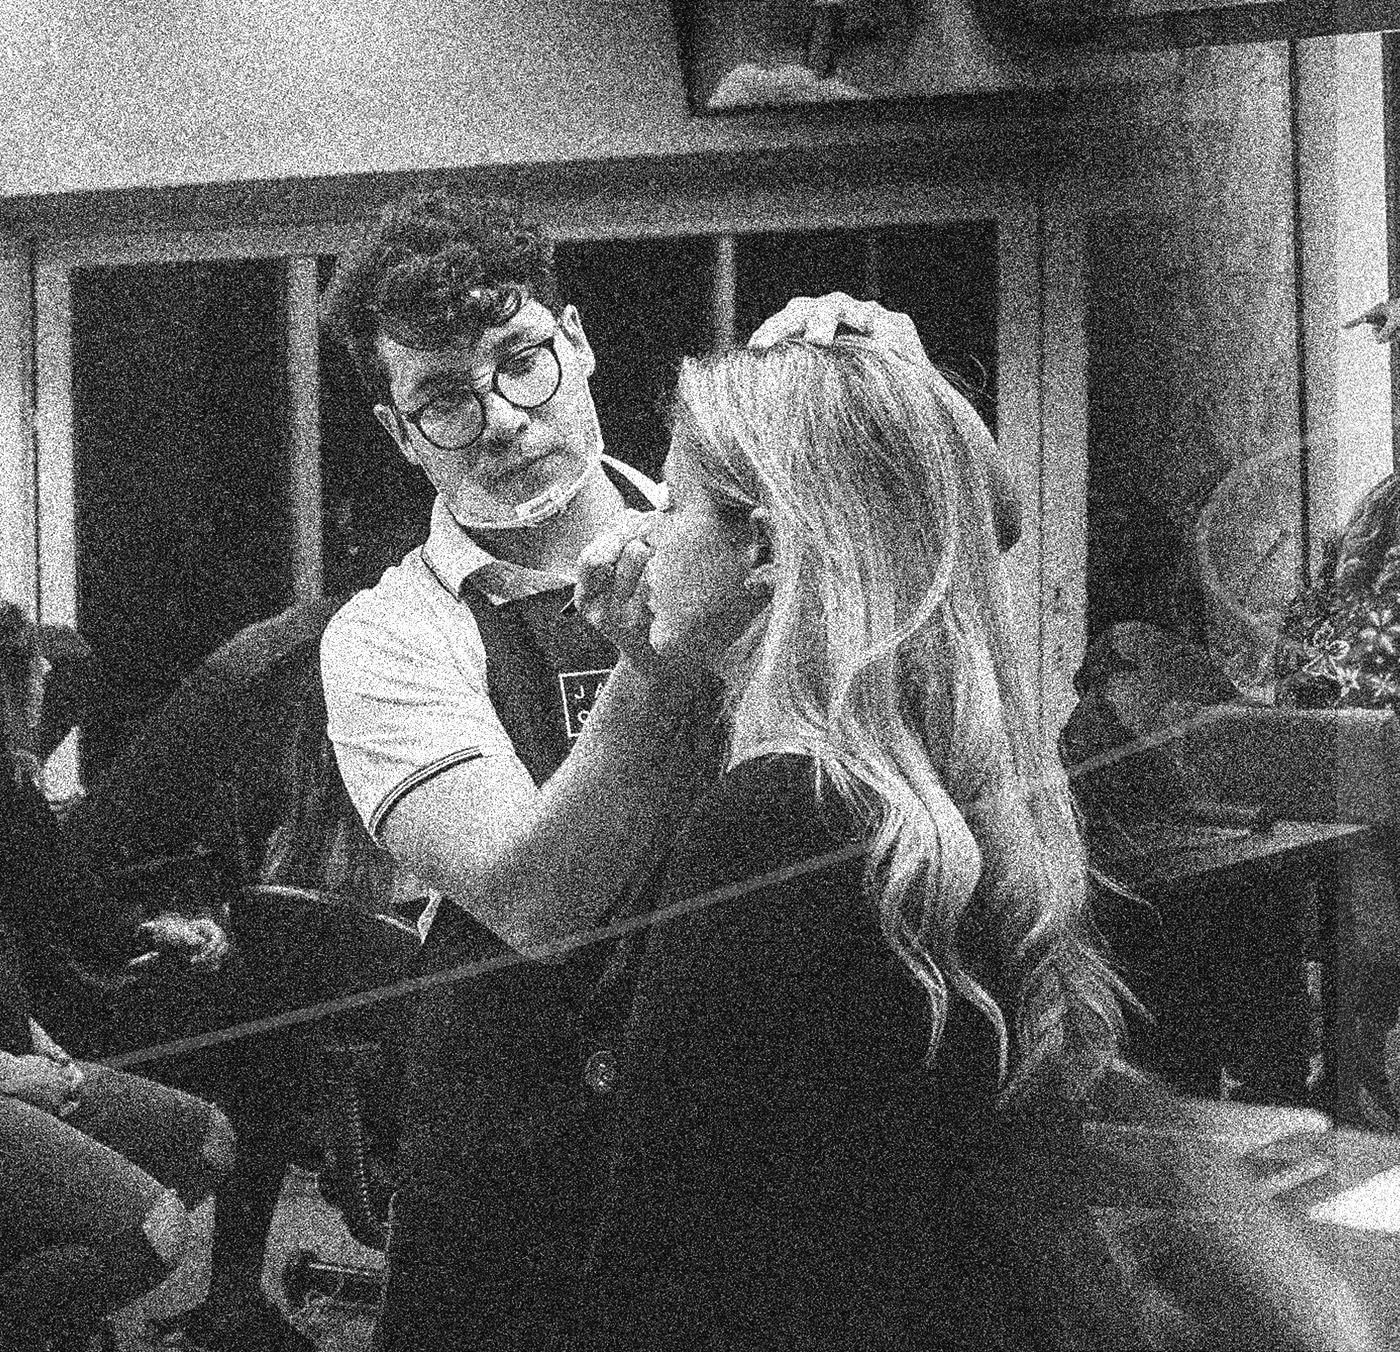
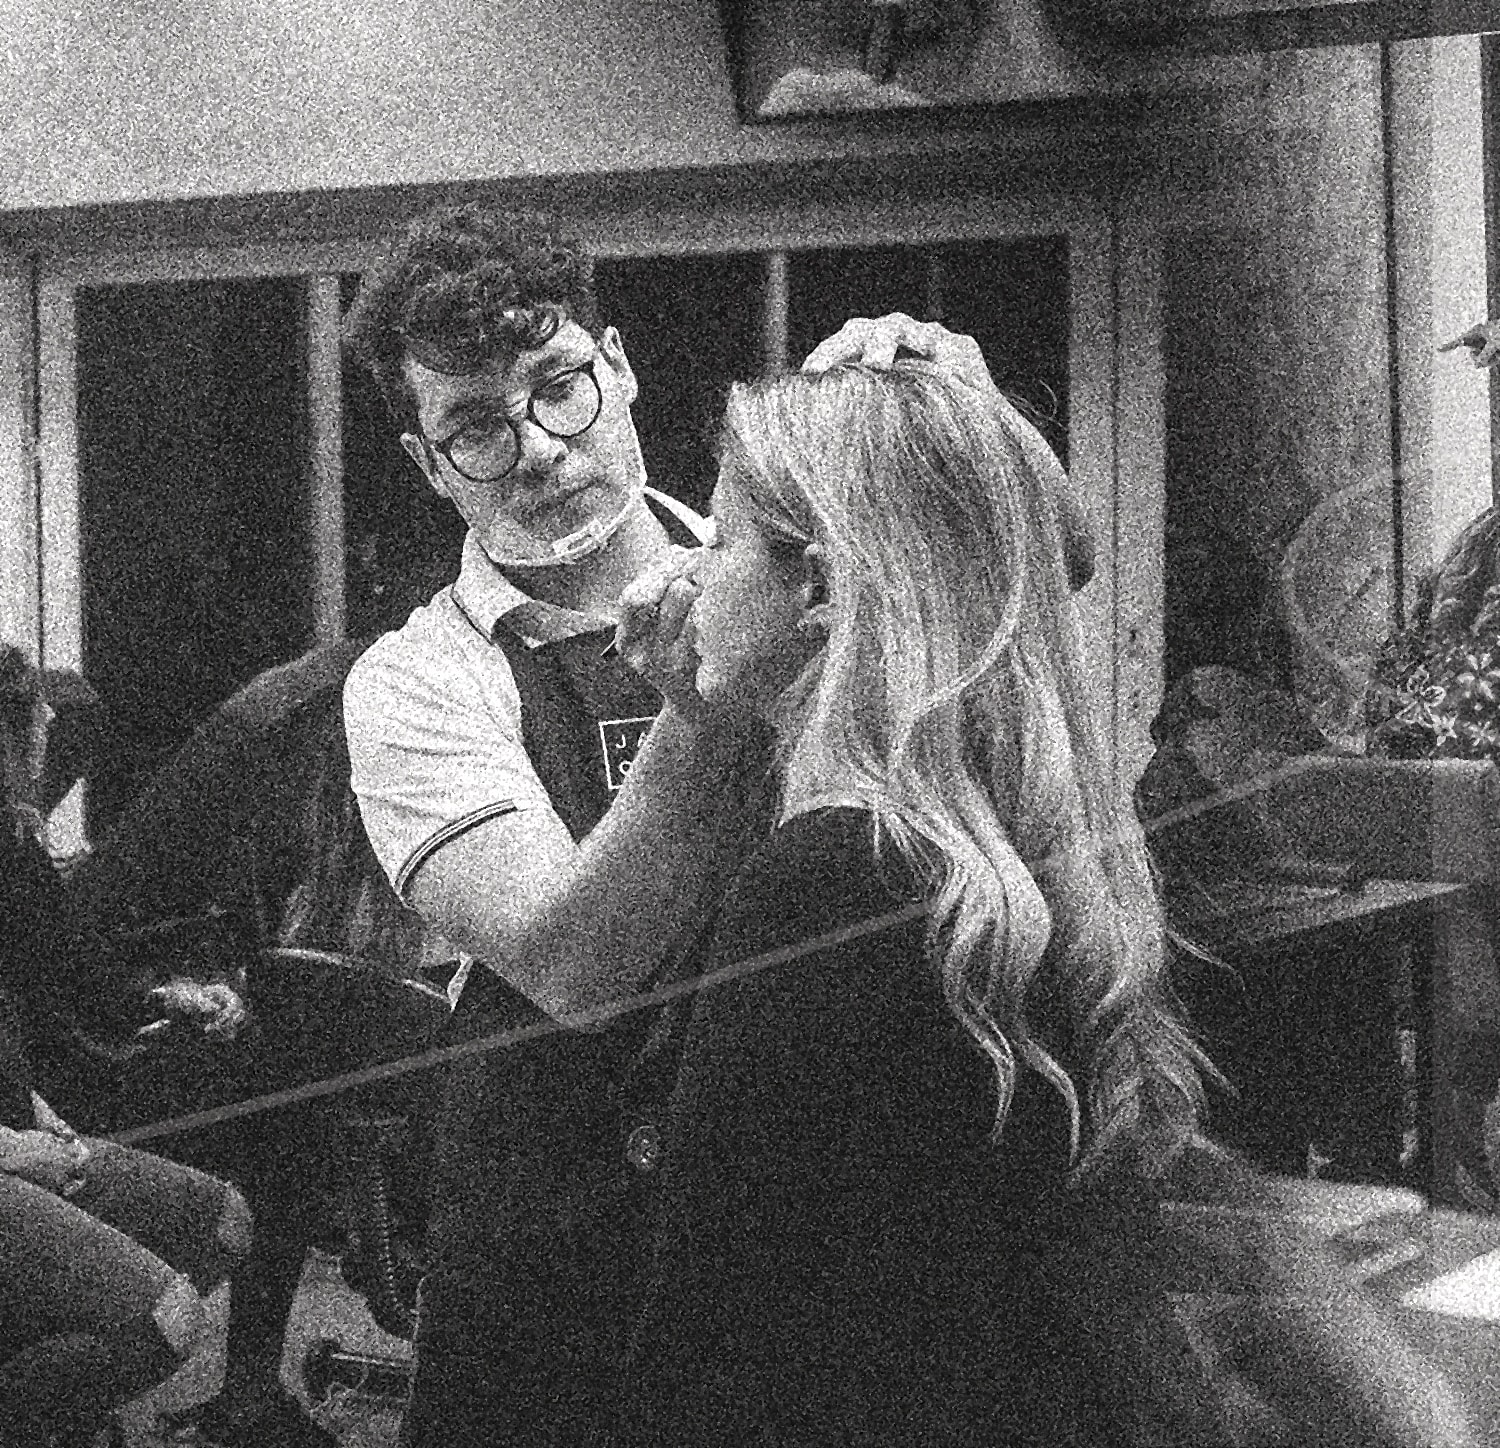
feat(academy): ajustes da ata 04/08 (fase 1 desktop)
- cards das formacoes clicaveis por camada invisivel a partir do proprio CTA
  (um link so, sem aninhar <a>)
- depoimentos viram cards brancos na lamina clara, nome preso no rodape por
  filete pra alinhar os quatro por baixo
- negrito estrategico na dobra #academy
- dobra #metodo com colunas aproximadas e bloco centrado no eixo do retrato
- fotos da dobra 3 restauradas + median(3)
- ata e notas de retomada em notas/lp-academy-ata/

diff --git a/lp-html/academy.html b/lp-html/academy.html
@@ -605,6 +605,33 @@
       transition: color .3s ease, border-color .3s ease, letter-spacing .3s ease;
     }
     .card:hover .card__cta { color: var(--preto); border-color: var(--preto); letter-spacing: .32em; }
+    /* ⚠ 04/08 (ata): CARD INTEIRO CLICÁVEL. Em vez de embrulhar tudo num <a>
+       (que aninharia links e quebraria a leitura por leitor de tela), o próprio
+       "Ver formação" ganha uma camada invisível cobrindo o card. Um link só,
+       área de clique inteira. */
+    .card { position: relative; }
+    .card__cta::after { content: ''; position: absolute; inset: 0; z-index: 1; }
+    .card:hover .card__capa { transform: translateY(-6px); }
+
+    /* ⚠ 04/08 (ata): DEPOIMENTOS EM CARD. Eram tipográficos, só com filete em
+       cima. Viram brochura pousada sobre o off-white — a mesma linguagem das
+       capas dos cursos, que é o card que o James aprovou. */
+    .claro .depoimento {
+      padding: clamp(20px, 2.2vw, 30px);
+      border-top: 0;
+      background: #fff;
+      box-shadow: 0 8px 24px rgba(16, 24, 32, .07), 0 1px 2px rgba(16, 24, 32, .06);
+    }
+    .claro .depoimento--destaque { box-shadow: 0 14px 38px rgba(16, 24, 32, .11), 0 1px 2px rgba(16, 24, 32, .06); }
+    .claro .depoimento cite { margin-top: auto; padding-top: clamp(14px, 1.6vw, 20px); border-top: 1px solid rgba(16, 24, 32, .12); }
+    .claro .depoimento blockquote { flex: 1; }
+
+    /* ⚠ 04/08 (ata): a dobra do método sobrava vazio e o texto ficava jogado
+       pra esquerda. Colunas mais próximas e o bloco de texto centrado no eixo
+       do retrato. */
+    #metodo .metodo__topo { gap: clamp(20px, 2.6vw, 44px); align-items: center; }
+    #metodo .metodo__topo .titulo-lamina { max-width: 22ch; }
+
     /* o MESMO link, na paleta escura — pra não precisar de um botão só dele */
     .secao:not(.claro) .card__cta { color: var(--ouro-claro); border-bottom-color: rgba(220, 195, 131, .45); }
     .secao:not(.claro) a.card__cta:hover { color: var(--off-white); border-color: var(--off-white); letter-spacing: .32em; }
@@ -1080,9 +1107,12 @@
 
       <div class="hero__content">
         <p class="hero__kicker">Sua carreira na área da beleza</p>
+        <!-- ⚠ 04/08 (ata da reunião): o título dizia "Micropigmentação de alto
+             nível", que descrevia o assunto mas não dizia ONDE a visitante está.
+             Trocado por boas-vindas, deixando o lugar explícito na primeira linha. -->
         <h1 class="hero__title">
-          Micropigmentação
-          <span>de alto nível</span>
+          Bem-vindo à
+          <span>Jay Academy</span>
         </h1>
         <p class="hero__text">
           A escola de James Olaya para profissionais que buscam excelência,
@@ -1451,9 +1481,11 @@
           <strong>leva a profissão a sério.</strong>
         </h2>
         <p class="texto-lamina">
-          Um ambiente pensado para proporcionar uma experiência de formação completa, com
-          estrutura, conforto e tudo o que você precisa para se concentrar no que realmente
-          importa: sua evolução.
+          <!-- ⚠ 04/08 (ata): negrito estratégico pra criar hierarquia no corrido.
+               O `.texto-lamina b` já existe no sistema e pinta em off-white. -->
+          Um ambiente pensado para proporcionar uma <b>experiência de formação completa</b>, com
+          <b>estrutura</b> e <b>conforto</b> e tudo o que você precisa para se concentrar no que
+          realmente importa: <b>sua evolução</b>.
         </p>
       </div>
 

diff --git a/notas/lp-academy-ata/RETOMAR-AQUI.md b/notas/lp-academy-ata/RETOMAR-AQUI.md
@@ -1,0 +1,116 @@
+# 🔖 RETOMAR AQUI — LP Academy, ajustes da ata
+
+> Pasta criada em **2026-08-04** pra não perder o fio quando a conversa acabar.
+> Se você é o Claude chegando agora: **lê este arquivo inteiro antes de mexer em nada.**
+
+**Arquivo:** `portal/lp-html/academy.html` · **Roda em:** `localhost:4000/academy`
+**Contexto vivo do projeto:** `portal/notas/progresso-atual.md`
+
+---
+
+## ⚠ ESTADO: nada disso está commitado
+
+As mudanças de 04/08 estão **só no arquivo local**. Se algo se perder, é aqui que dói.
+Antes de qualquer coisa nova, vale commitar o que já existe.
+
+---
+
+## ✅ Já feito (Fase 1 — desktop)
+
+| # | Item | Como ficou |
+|---|------|-----------|
+| 3 | Cards das formações clicáveis | Camada invisível sobre o card, a partir do próprio `.card__cta` — **um link só**, sem aninhar `<a>`, pra não quebrar leitor de tela |
+| 4 | Depoimentos em cards | Cartão branco com sombra na lâmina clara; o nome preso no rodapé por filete, então os quatro alinham por baixo |
+| 5 | Negrito na "seção de evolução" | Aplicado na dobra **`#academy`** — é a única cujo texto fala em "sua evolução". ⚠ Interpretação minha, o James ainda não confirmou se era essa |
+| 6 | "Você não aprende apenas uma técnica" (`#metodo`) | Colunas aproximadas, título em 22ch, bloco centrado no eixo do retrato |
+| — | Fotos da dobra 3 | Restauradas pra versão anterior ao meu tratamento + `median(3)` pra reduzir ruído. **Melhorou pouco** — ver pendência 3 |
+
+---
+
+## 🔜 O QUE FAZER, NA ORDEM
+
+### 1. Desfazer o título da hero
+Voltar de "Bem-vindo à Jay Academy" para **"Micropigmentação de alto nível"**.
+Foi trocado pela ata, mas o James mudou de ideia — o boas-vindas vai virar tela de abertura (item 2).
+
+### 2. Tela de abertura em lettering (NOVO)
+Antes da hero: **tela preta**; conforme rola, **"Bem-vindo à Jay Academy"** aparece em efeito
+lettering, crescendo até ocupar a tela toda. **No máximo 2 linhas.** Depois dela vem a hero.
+
+⚠ **Três coisas que o James ainda não respondeu** (perguntar antes de codar):
+- **Quebra:** "BEM-VINDO À" / "JAY ACADEMY"?
+- **Gatilho:** escreve conforme a rolagem, ou sozinho ao carregar?
+- **Saída:** desliza pra cima revelando a hero, ou some em fade?
+
+### 3. Trocar as 3 fotos da dobra "Aprenda onde a técnica acontece" ⭐
+**É o item mais cobrado — o James pediu 4 vezes.**
+
+Estão em `public/lp/academy/reais/`: `sala-aula.jpg`, `demonstracao-real.jpg`, `pratica-real.jpg`.
+Ele quer **coloridas**. As atuais são P&B e granuladas.
+
+**O que já foi investigado (não repetir):**
+- Vieram do espelho do jamesolaya.com.br, em `public/lp/jamesolaya/` (img12, img27, img24)
+- **Todas as versões no git já são cinza** — saturação 0.0 / 1.1 / 6.0 desde o commit `c778578`.
+  Não existe original colorido no projeto. Medir de novo é perder tempo.
+- O **grão** é da própria foto (sala escura, ISO alto), não é efeito de CSS. `median(3)` reduziu pouco;
+  reduzir mais borra os rostos.
+
+**➡ Onde procurar (Canva do James):**
+| Design ID | Nome | Páginas | Já visto? |
+|---|---|---|---|
+| `DAHOvtt3XVA` | JAY ACADEMY - TELAS TV RECEPÇÃO | 28 | 5 páginas — **tem foto colorida real** (sat 41 a 97), mas as vistas são de resultado, não de turma |
+| `DAF2sbUupQ0` | JAY ACADEMY - APRESENTAÇÃO FULL 2 | 106 | não |
+| `DAHCQAi9Y8Q` | JAYO ACADEMY - CARROSSEL CURSOS 2026 | 74 | não |
+
+Se não achar turma colorida, a alternativa é trocar por outra imagem real que faça sentido —
+mas **não** repetir as fotos da casa (fachada/lounge/sala), que já estão na dobra `#academy`.
+
+### 4. Fase 2 — Mobile (só depois do desktop aprovado)
+- Reorganizar a dobra da experiência (a ata chama de "seção de demonstração")
+- Divisores inconsistentes entre desktop e mobile, inclusive nos cards de benefícios
+- Espaçamentos, alinhamentos e centralização de blocos de texto
+- Acabamento dos cards de benefícios
+
+---
+
+## ❓ Decisões paradas com o James
+
+1. **Carrossel dos depoimentos** — no desktop também, ou cards no desktop e carrossel só no celular?
+2. **Destino dos "Ver formação"** — WhatsApp, LP do curso ou âncora interna? Hoje vão pra `#comecar`.
+3. **"Seção de evolução"** — confirmar se o negrito entrou na dobra certa (`#academy`).
+
+---
+
+## 🗺 Como a ata mapeia nos nomes reais do código
+
+| Ata | Seção no HTML |
+|---|---|
+| "seção de demonstração" | `#experiencia` (o trio de fotos) |
+| "você não aprende apenas uma técnica" | `#metodo` |
+| "seção de evolução" | `#academy` *(interpretação, não confirmada)* |
+| "cards de benefícios" | `.indicadores`, dentro de `#experiencia` |
+
+---
+
+## 🧠 Armadilhas já pagas (não repetir)
+
+- **Não usar `Magic Shadow 3/assets/proofs`** — é material da **VOGUE**, com o logo da revista na imagem.
+- **As 3 macros da dobra `#resultados`** vieram de páginas de post do Canva. **A origem nunca foi
+  confirmada** — podem ser banco de imagem usado como fundo. O James disse "beleza" quando falei
+  que não são IA, mas ninguém verificou se são dele.
+- **Windows: não ler e gravar o mesmo caminho** com sharp — grava em arquivo temporário e renomeia,
+  senão dá `UNKNOWN: open`.
+- **Seletor com `#id` vence media query.** Já quebrou o mobile da dobra 7 uma vez: se criar override
+  com ID, repetir o ID dentro do `@media`.
+- **Variar o arranjo das mesmas peças não conta como "opção diferente"** pra ele. Se pedir algo
+  diferente, mudar a lógica do bloco, não a posição das caixas.
+- **Reaproveitar device antes de inventar** — `.indicadores` em colunas com filete, `.trio` escalonado,
+  `.card`. Device novo costuma ser reprovado.
+- **A LP usa UM filete**, nunca dois cercando um bloco (isso vira caixa, e caixa não é a linguagem).
+- **Full-bleed só na hero e no fechamento.** Toda dobra mora dentro do `.faixa`.
+
+---
+
+## 📄 A ata original
+
+Está em `ata-reuniao-04-08.md`, nesta mesma pasta.

diff --git a/notas/lp-academy-ata/ata-reuniao-04-08.md b/notas/lp-academy-ata/ata-reuniao-04-08.md
@@ -1,0 +1,92 @@
+# Ata de Reunião — Feedback das Landing Pages
+
+**Data:** 04/08/2026
+**Participantes:** Stefano e João Pedro
+
+> ⚠ A ata chama a escola de "GA Academy". **É engano de transcrição** — a conversa foi
+> traduzida e trocou o nome. O correto é **JAY ACADEMY**, confirmado pelo James.
+
+---
+
+## 1. Primeira dobra (Hero)
+- Alterar o título para deixar claro onde o usuário está.
+- Manter o banner atual, alterando apenas o texto.
+- Botão "Conheça as formações" aprovado; deve levar à seção de formações.
+
+> 🔄 **Atualizado depois da reunião:** o James decidiu que a hero volta ao título original
+> ("Micropigmentação de alto nível") e o boas-vindas vira uma **tela de abertura em lettering**,
+> antes da hero. Ver `RETOMAR-AQUI.md`, item 2.
+
+## 2. Textos
+- Aprovados. Só foi questionada a origem de algumas frases (vieram de material do projeto).
+
+## 3. Imagens
+- Remover o efeito de preto e branco / noise / grain.
+- Usar imagens nítidas.
+- **Justificativa:** o efeito pode ser lido como defeito do site.
+
+## 4. Responsividade (Mobile)
+- Reorganizar a seção de demonstração para melhorar a compreensão na primeira visualização.
+- Corrigir posição de títulos e imagens nessa seção.
+- Revisar todos os divisores, garantindo consistência entre desktop e mobile.
+- Ajustar espaçamentos e alinhamentos.
+- Centralizar melhor alguns blocos de texto.
+
+## 5. Seção "Você não aprende apenas uma técnica..."
+- Reduzir o espaço em branco.
+- Centralizar visualmente o conteúdo.
+- Equilibrar o posicionamento do texto.
+
+## 6. Cards de benefícios
+- Corrigir inconsistências dos divisores no mobile.
+- Ajustar alinhamentos para transmitir mais cuidado e acabamento.
+
+## 7. Formações
+- Seção muito bem avaliada; visual bonito e organizado.
+- **Sugestão:** tornar os cards clicáveis.
+
+## 8. Depoimentos
+- Colocar cada depoimento dentro de um card.
+- Transformar a seção em carrossel horizontal.
+
+## 9. Seção de evolução
+- Aplicar negrito em partes estratégicas para melhorar a hierarquia visual.
+
+## 10. CTA
+- **Pendente:** definir o destino dos botões "Ver formação" — WhatsApp, LP do curso ou
+  navegação interna.
+
+---
+
+## Identidade visual entre as duas LPs
+As duas páginas têm fontes, linguagem e estilos diferentes. O objetivo é aproximá-las.
+
+> 🔄 **Fora do escopo desta LP.** O James definiu que a *outra* página é que será aproximada
+> da Academy — aqui não se mexe.
+
+## Página "Link da Bio"
+Trocar o título por algo como "Saiba mais".
+
+> 🔄 **Fora do escopo desta LP.** Está em outra página do portal.
+
+---
+
+## Impressões gerais
+
+**Positivos:** layout aprovado; composição visual elogiada; escolha das imagens elogiada;
+organização muito boa; seção das formações bastante elogiada.
+
+**A melhorar:** clareza da primeira dobra; identidade visual entre as páginas; experiência
+no mobile; remover efeitos que gerem confusão; alinhamentos, espaçamentos e divisores;
+estrutura dos depoimentos; fluxo dos CTAs.
+
+---
+
+## Próximos passos (da ata)
+- Atualizar o Hero.
+- Remover os efeitos das imagens.
+- Corrigir os ajustes de responsividade.
+- Padronizar tipografia entre as páginas.
+- Depoimentos em cards/carrossel.
+- Revisar espaçamentos e alinhamentos.
+- Definir o destino dos CTAs antes da publicação.
